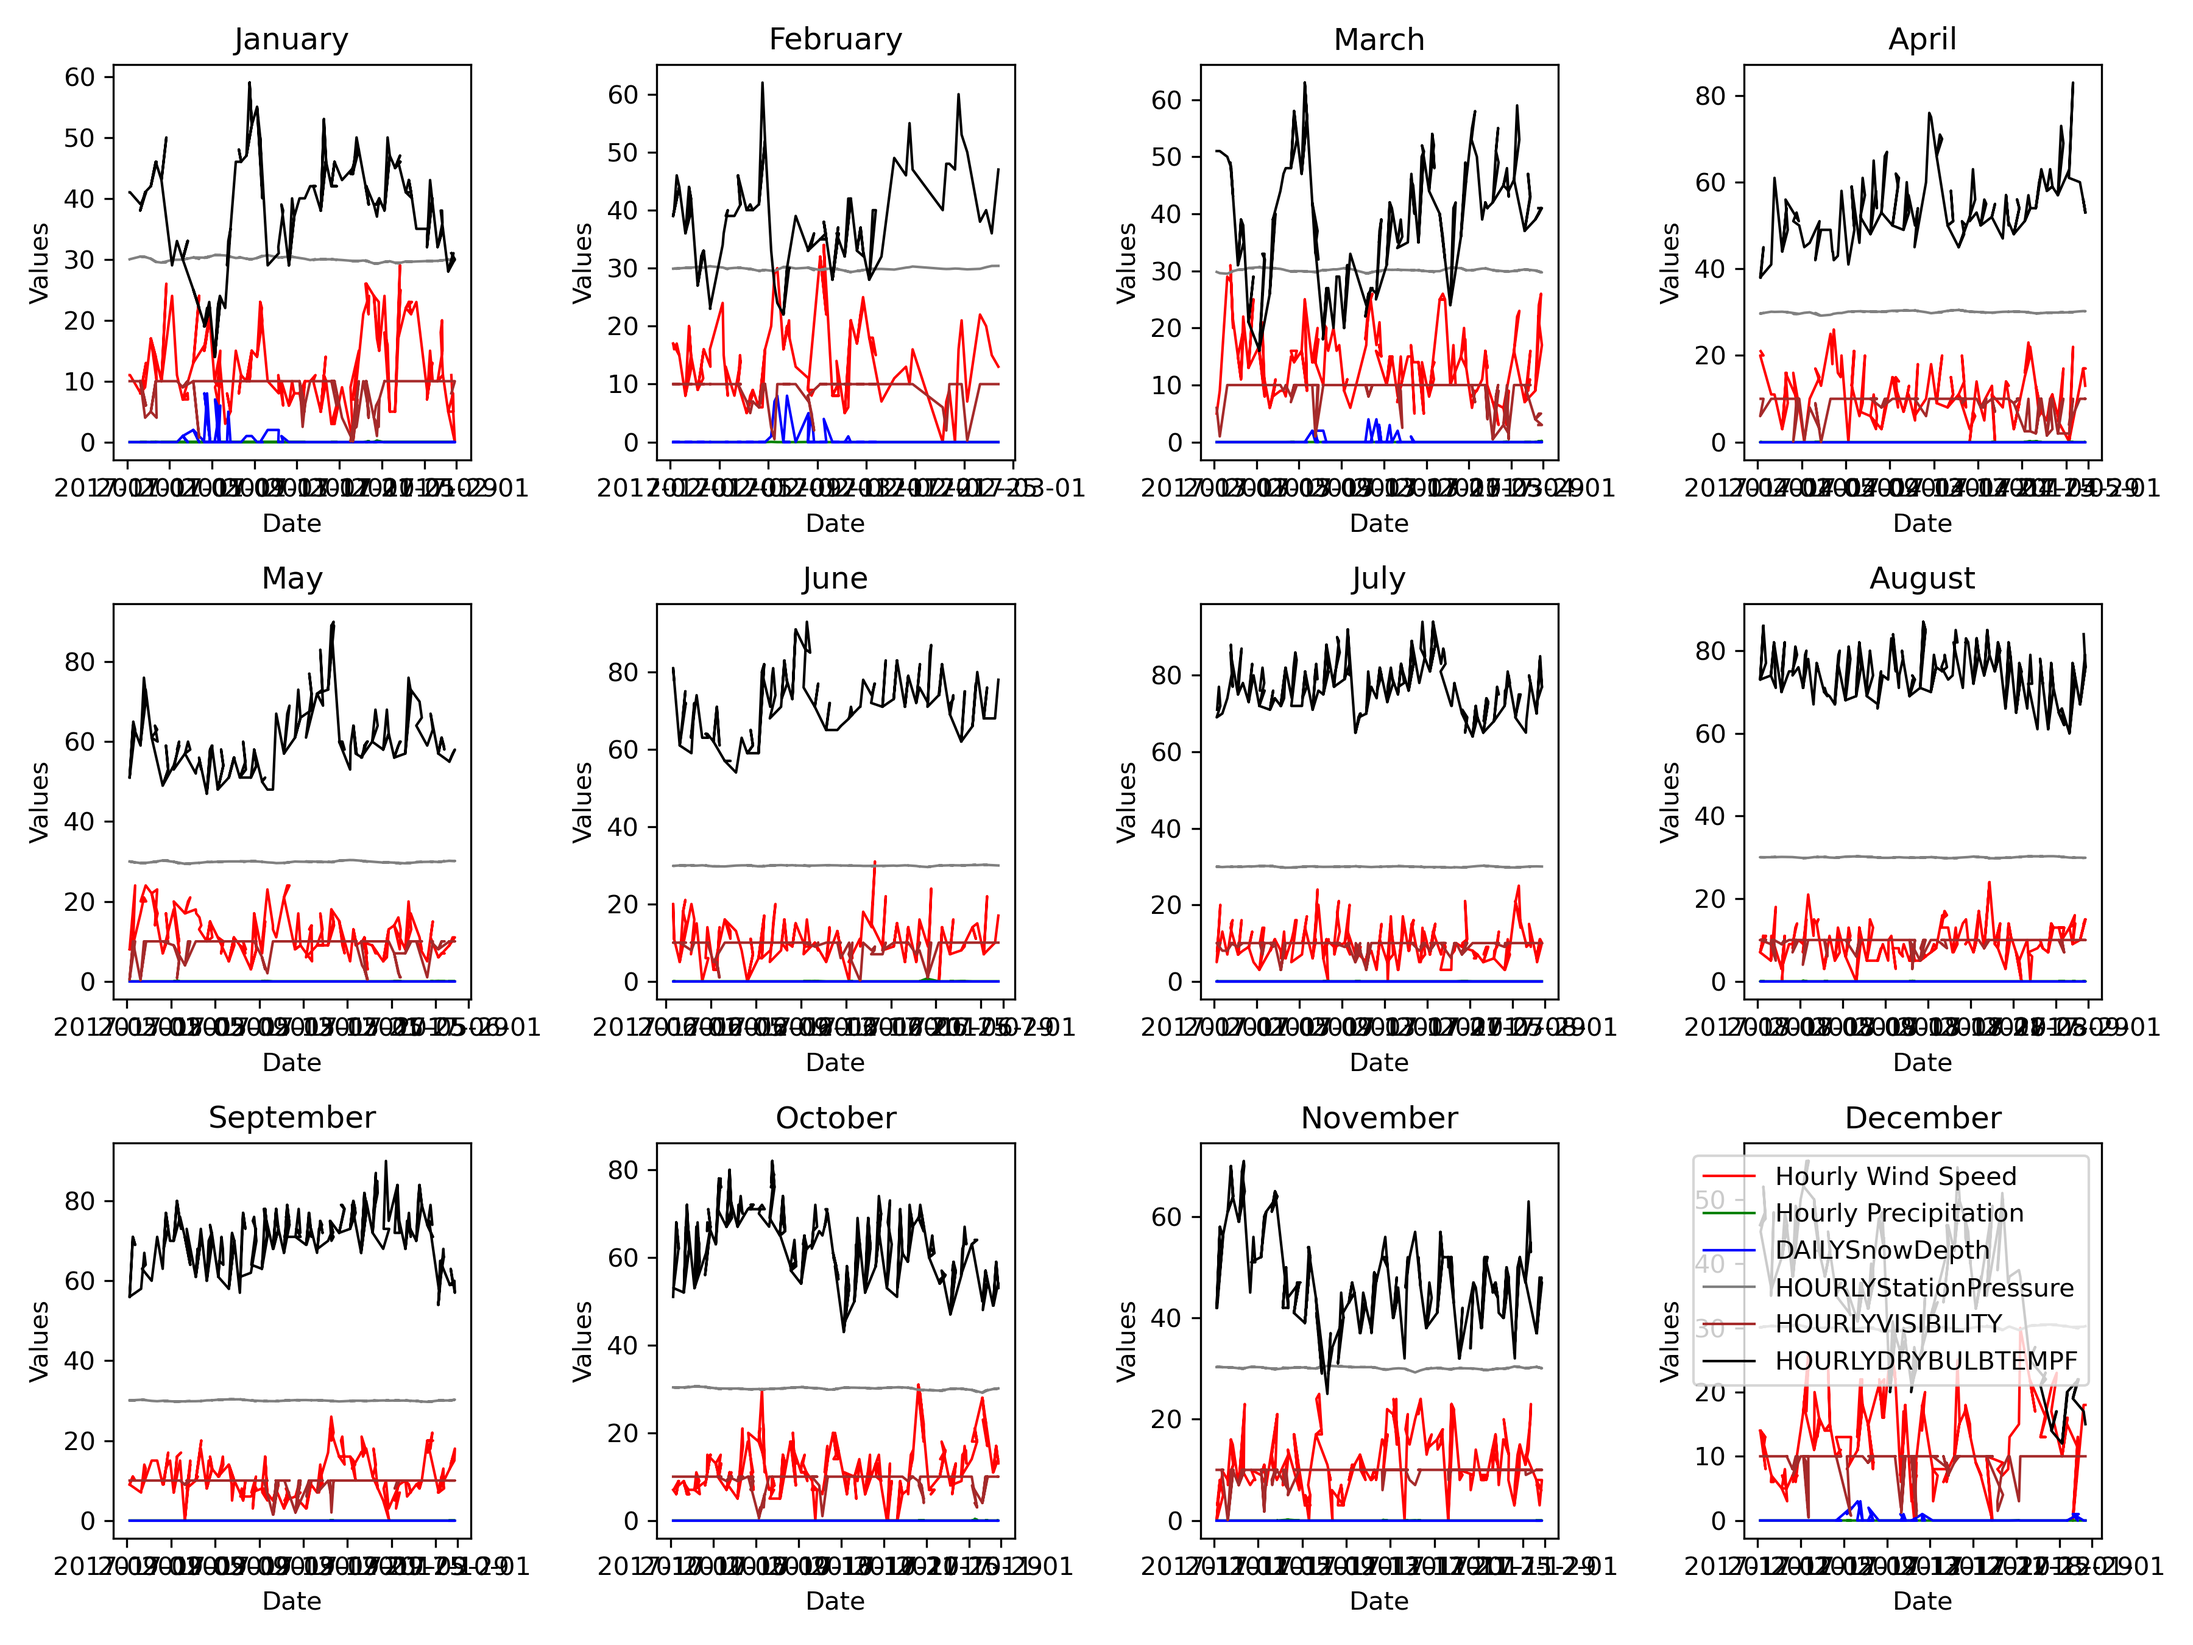
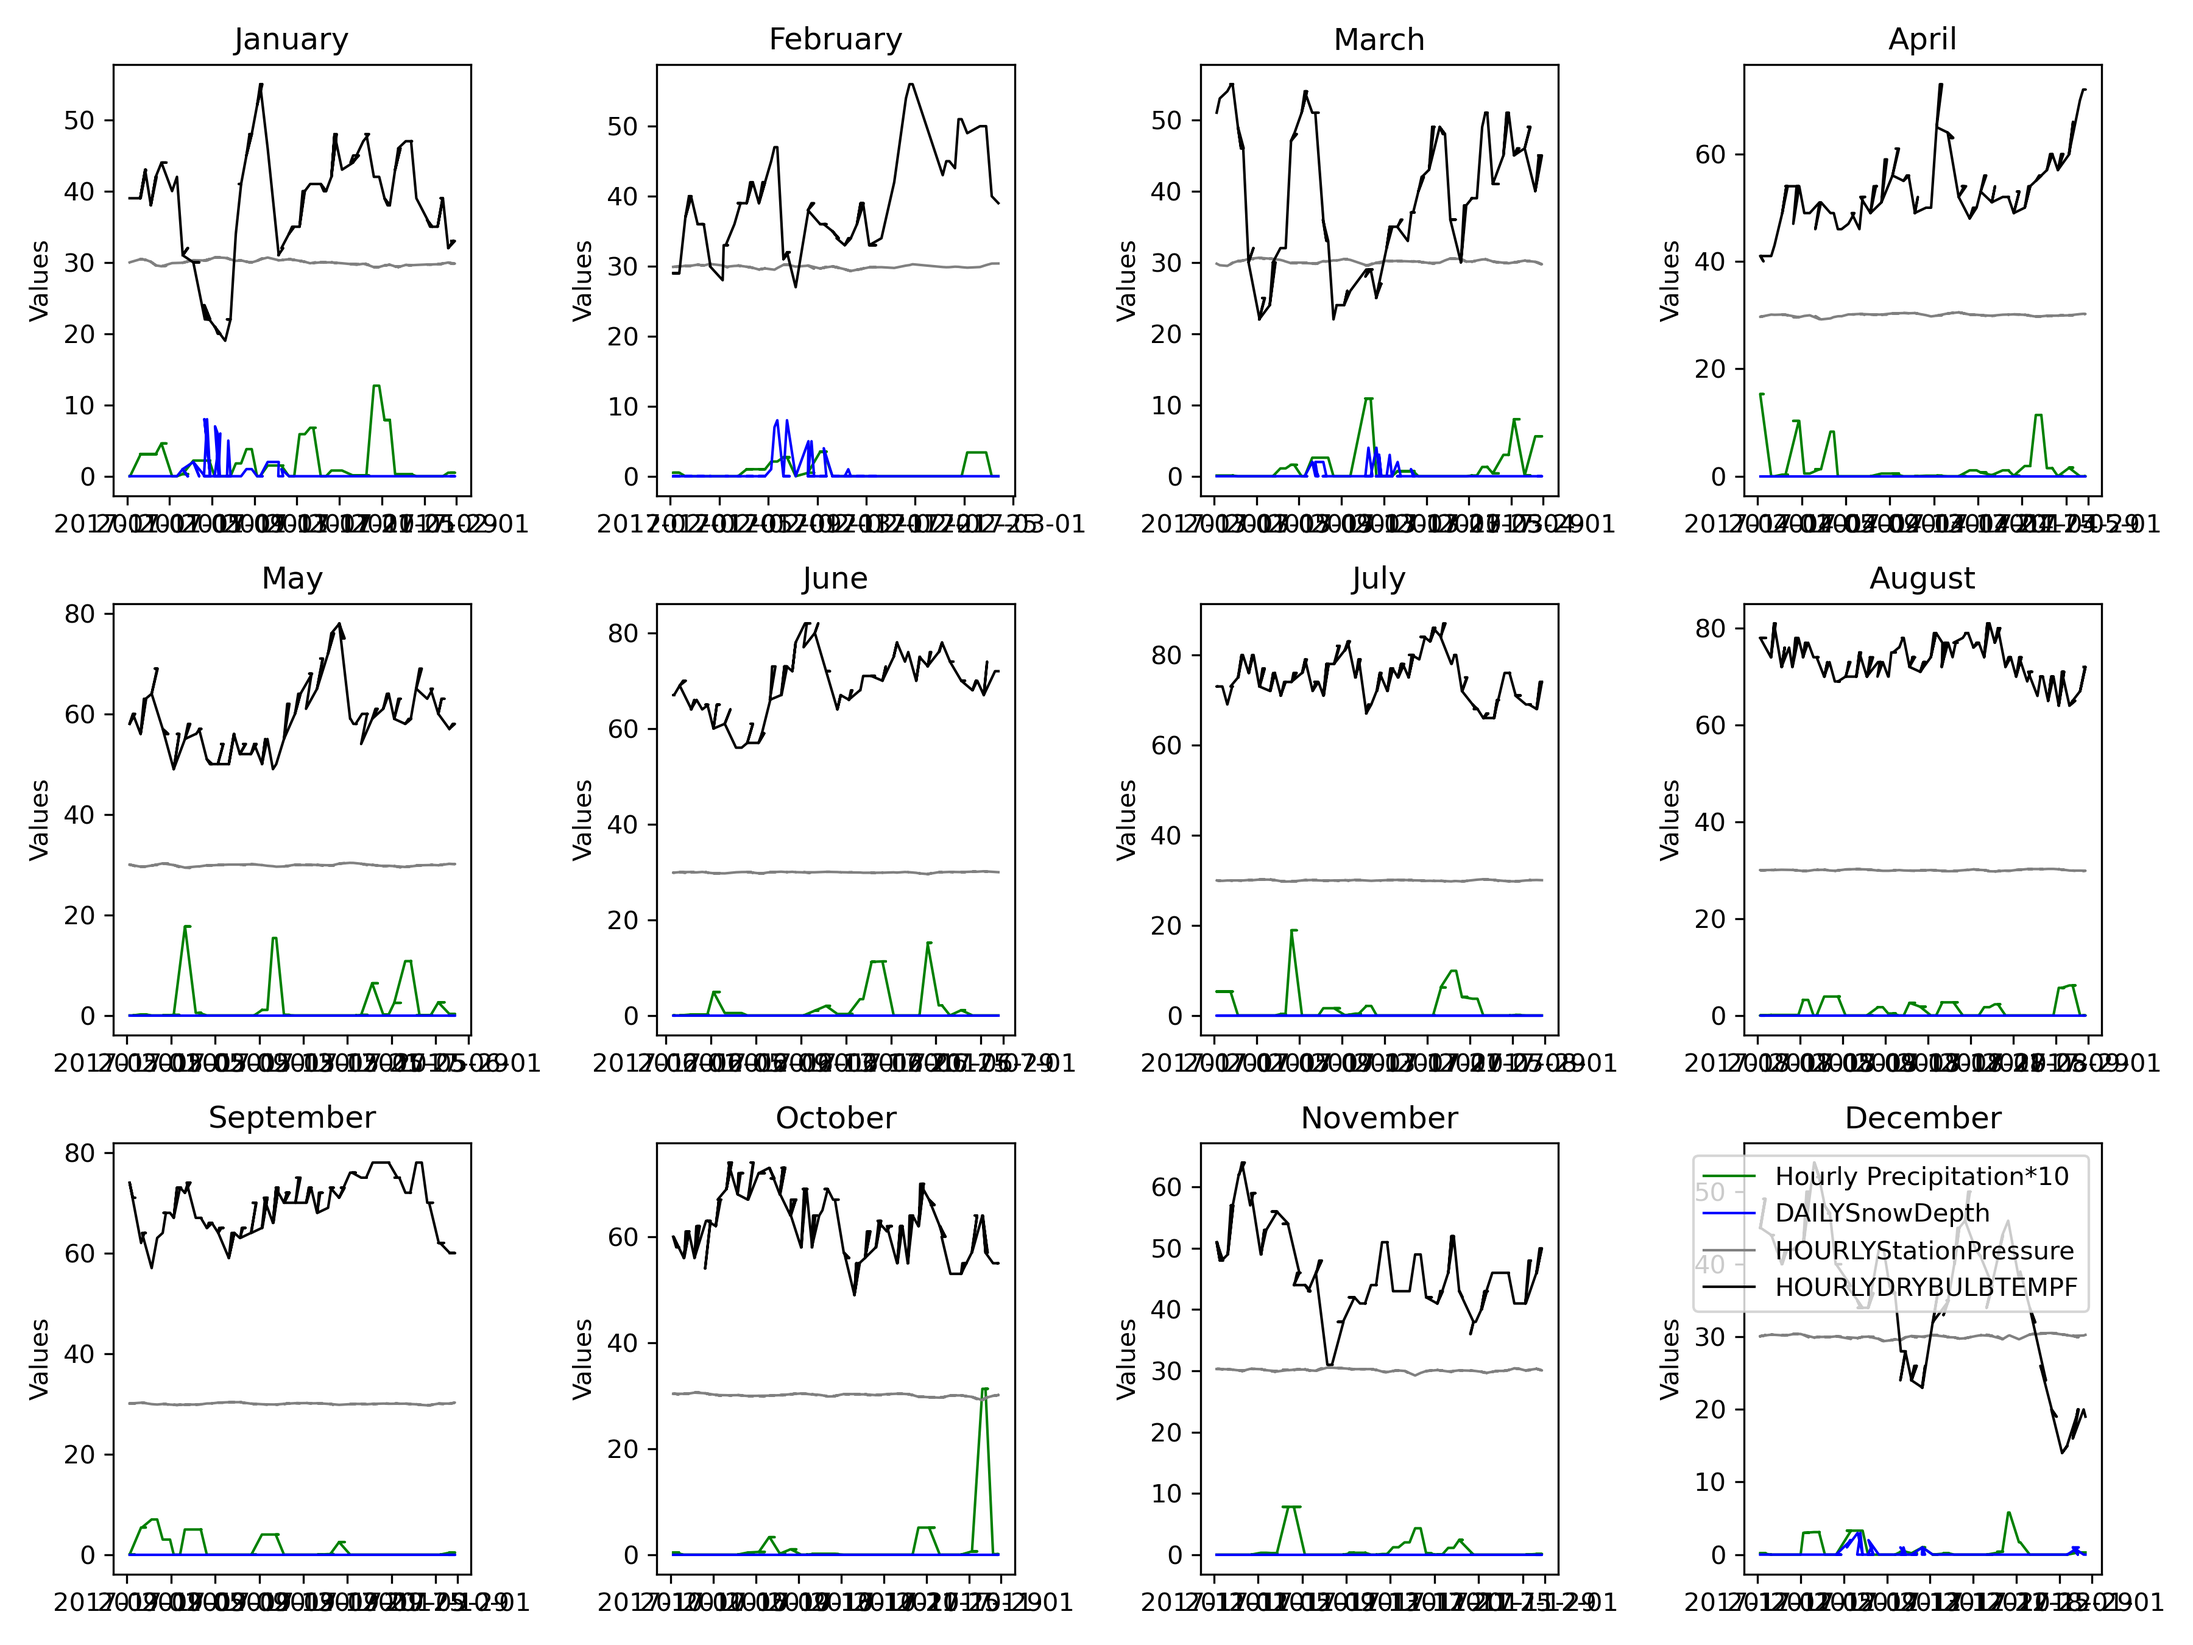
weather summary plot ok

diff --git a/2_Data_exploration/stat_exploratoire.py b/2_Data_exploration/stat_exploratoire.py
@@ -320,12 +320,12 @@ months = ['January', 'February', 'March', 'April', 'May', 'June', 'July', 'Augus
 for i, month in enumerate(months):
     month_data = df[df['DATE_weather'].dt.month == i + 1]
     plt.subplot(3, 4, i+1)
-    plt.plot(month_data['DATE_weather'], month_data['HOURLYWindSpeed'], label='Hourly Wind Speed', color='red', linewidth=1)
-    plt.plot(month_data['DATE_weather'], month_data['HOURLYPrecip'], label='Hourly Precipitation', color='green', linewidth=1)
+    #plt.plot(month_data['DATE_weather'], month_data['DAILYWindSpeed'], label='Hourly Wind Speed', color='red', linewidth=1)
+    plt.plot(month_data['DATE_weather'], month_data['DAILYPrecip']*10, label='Hourly Precipitation*10', color='green', linewidth=1) #*10 for more visibility
     plt.plot(month_data['DATE_weather'], month_data['DAILYSnowDepth'], label='DAILYSnowDepth', color='blue', linewidth=1)
-    plt.plot(month_data['DATE_weather'], month_data['HOURLYStationPressure'], label='HOURLYStationPressure', color='grey', linewidth=1)
-    plt.plot(month_data['DATE_weather'], month_data['HOURLYVISIBILITY'], label='HOURLYVISIBILITY', color='brown', linewidth=1)
-    plt.plot(month_data['DATE_weather'], month_data['HOURLYDRYBULBTEMPF'], label='HOURLYDRYBULBTEMPF', color='black', linewidth=1)
+    plt.plot(month_data['DATE_weather'], month_data['HOURLYStationPressure'], label='HOURLYStationPressure', color='grey', linewidth=1) #hourly beause the evolutions are smooth
+    #plt.plot(month_data['DATE_weather'], month_data['DAILYVISIBILITY'], label='HOURLYVISIBILITY', color='brown', linewidth=1)
+    plt.plot(month_data['DATE_weather'], month_data['DAILYAverageDryBulbTemp'], label='HOURLYDRYBULBTEMPF', color='black', linewidth=1)
     
     plt.title(f'{month}')
     #plt.xlabel('Date')
